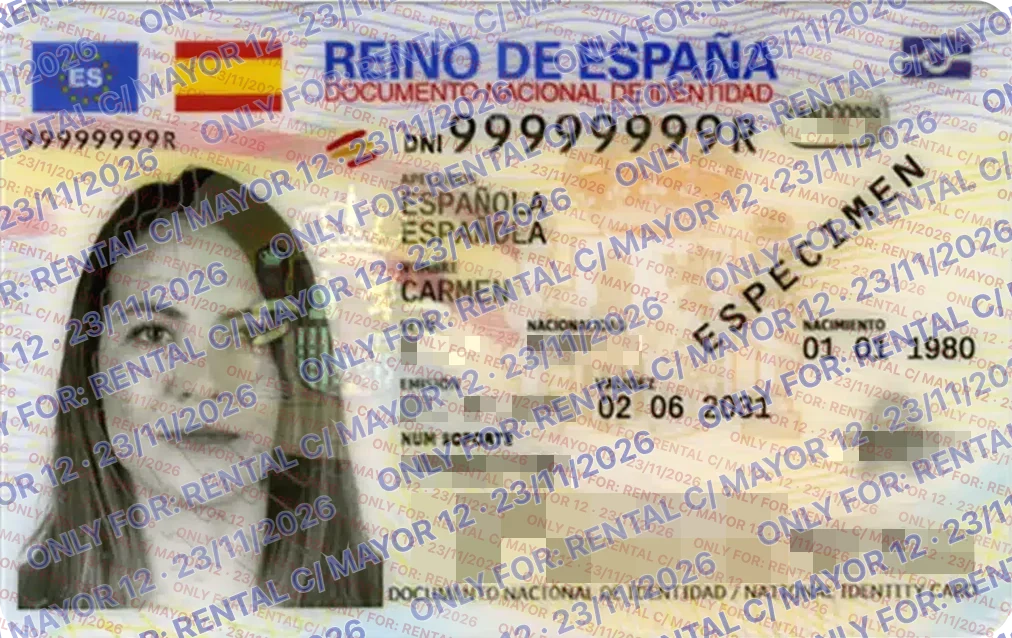
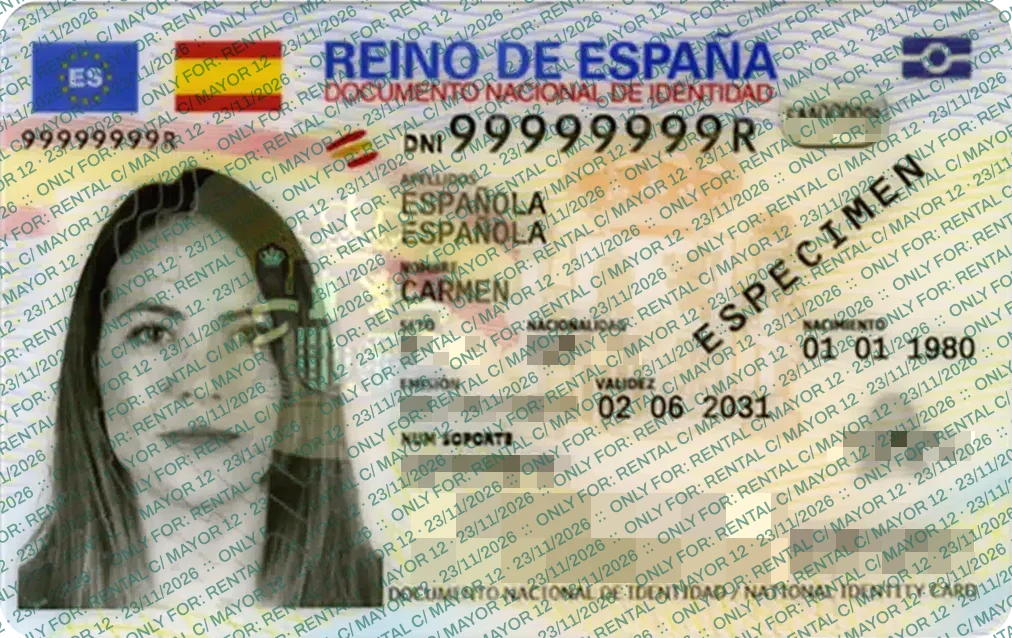
Landing: new watermark on the specimen, and a draggable comparison slider (#8)
* Landing: regenerate the covered specimen with the new watermark

The hero's "Con JustID" images still showed the old two-layer watermark.
The render script now passes a fixed seed (the specimen is reproducible) and
waits for Archivo, which the watermark is set in.

* Landing: the hero specimen is a slider you can drag

The scan line still animates on its own until the visitor takes over: press
or drag (mouse or touch, mapped through the card's 4° rotation), or use the
arrow keys, Home and End. With reduced motion (which some phones turn on
in battery saver, stopping the animation) the card rests at 62% and can
still be dragged. The card is a labelled role="slider", and a hint says
"drag to compare".

* Landing: the specimen animation resumes 5 s after a drag

It picks up from where the line was left (the sweep's easing is inverted to
find the matching point of the animation) instead of jumping back to the
edge. Not with reduced motion, nor while the slider has keyboard focus.

* Landing: resume the specimen animation after 2 s instead of 5

diff --git a/landing/landing.js b/landing/landing.js
@@ -1,6 +1,6 @@
 // @ts-check
 // Landing page behaviour: applies the chosen language to the static Spanish markup, mounts the
-// ES/EN switches and wires the "copy the AI prompt" button. No network access (the CSP forbids it).
+// ES/EN switches, wires the "copy the AI prompt" button and makes the hero's specimen draggable. No network access (the CSP forbids it).
 import { applyI18n, mountLangSwitch, t } from '../app/js/ui/i18n.js';
 import { encodeRequest } from '../app/js/core/request.js';
 import { defaultFields } from '../app/js/core/request-builder.js';
@@ -13,6 +13,7 @@ applyI18n();
 document.querySelectorAll('[data-lang-switch]').forEach(box => mountLangSwitch(/** @type {HTMLElement} */ (box)));
 setupCopyButton();
 setupExampleRequest();
+setupSpecimenSlider();
 window.addEventListener('langchange', setupExampleRequest);
 
 /** Select all the text of an element so the user can copy it by hand. @param {HTMLElement} node */
@@ -97,4 +98,78 @@ function setupExampleRequest() {
   const base = document.getElementById('req-url-base'), frag = document.getElementById('req-url-frag');
   if (base) base.textContent = location.host + '/app/';
   if (frag) frag.textContent = '#' + fragment;
+}
+
+/**
+ * The hero's specimen: the CSS animation sweeps the scan line until the visitor takes over. Pressing
+ * (mouse or touch) moves the line to the pointer and dragging follows it; arrow keys, Home and End
+ * work too. RESUME_MS after the last interaction the animation picks up again from where the line
+ * was left (not while the slider has keyboard focus). With reduced motion there is no animation,
+ * but dragging still works. The card is rotated, so the pointer is mapped into the card's own axes.
+ */
+function setupSpecimenSlider() {
+  const card = /** @type {HTMLElement | null} */ (document.querySelector('.id-card'));
+  if (!card) return;
+  const ANGLE = -4 * Math.PI / 180; // must match the rotate() in landing.css
+  const RESUME_MS = 2000, SWEEP_S = 3; // half of the 6 s animation in landing.css: the left-to-right sweep
+  const reducedMotion = window.matchMedia('(prefers-reduced-motion: reduce)');
+  const animated = /** @type {HTMLElement[]} */ ([...card.querySelectorAll('.card-covered, .scan')]);
+  let pos = 62, resumeTimer = 0;
+  /** The pointer currently dragging, if any. @type {number | null} */
+  let dragging = null;
+
+  /**
+   * Seconds into the animation at which the line is at `p` % while sweeping right. The keyframes go
+   * from -4% to 100% in the first half with cubic-bezier(.6, 0, .4, 1): invert it by bisection.
+   * @param {number} p
+   */
+  const phaseAt = p => {
+    const target = Math.min(1, Math.max(0, (p + 4) / 104));
+    const bez = (/** @type {number} */ s, /** @type {number} */ a, /** @type {number} */ b) => 3 * (1 - s) ** 2 * s * a + 3 * (1 - s) * s * s * b + s ** 3;
+    let lo = 0, hi = 1;
+    for (let i = 0; i < 30; i++) { const mid = (lo + hi) / 2; if (bez(mid, 0, 1) < target) lo = mid; else hi = mid; }
+    return bez(lo, 0.6, 0.4) * SWEEP_S;
+  };
+  const resume = () => {
+    if (reducedMotion.matches || dragging !== null || card.matches(':focus-visible')) return;
+    for (const el of animated) el.style.animationDelay = `-${phaseAt(pos).toFixed(3)}s`;
+    card.classList.remove('is-manual');
+  };
+  const scheduleResume = () => { clearTimeout(resumeTimer); resumeTimer = window.setTimeout(resume, RESUME_MS); };
+
+  /** @param {number} value percentage of the card showing the covered copy */
+  const set = value => {
+    clearTimeout(resumeTimer);
+    pos = Math.round(Math.min(100, Math.max(0, value)));
+    card.classList.add('is-manual');
+    card.style.setProperty('--pos', pos + '%');
+    card.setAttribute('aria-valuenow', String(pos));
+    card.setAttribute('aria-valuetext', t('landing.hero.slider_value', { n: pos }));
+  };
+  /** Position under the pointer, in percent of the card's width. @param {PointerEvent} e */
+  const fromPointer = e => {
+    const r = card.getBoundingClientRect(), dx = e.clientX - (r.left + r.width / 2), dy = e.clientY - (r.top + r.height / 2);
+    const local = dx * Math.cos(ANGLE) + dy * Math.sin(ANGLE); // undo the rotation
+    return (local / card.offsetWidth + 0.5) * 100;
+  };
+
+  card.addEventListener('pointerdown', e => {
+    if (e.button !== 0) return;
+    dragging = e.pointerId;
+    try { card.setPointerCapture(e.pointerId); } catch { /* keeps working without capture */ }
+    set(fromPointer(e));
+  });
+  card.addEventListener('pointermove', e => { if (e.pointerId === dragging) set(fromPointer(e)); });
+  for (const type of ['pointerup', 'pointercancel']) card.addEventListener(type, () => { dragging = null; scheduleResume(); });
+  card.addEventListener('blur', scheduleResume);
+  card.addEventListener('keydown', e => {
+    const step = e.shiftKey ? 10 : 5;
+    const next = { ArrowLeft: pos - step, ArrowDown: pos - step, ArrowRight: pos + step, ArrowUp: pos + step, Home: 0, End: 100 }[e.key];
+    if (next === undefined) return;
+    e.preventDefault();
+    set(next);
+    scheduleResume();
+  });
+  window.addEventListener('langchange', () => card.setAttribute('aria-valuetext', t('landing.hero.slider_value', { n: pos })));
+  card.setAttribute('aria-valuetext', t('landing.hero.slider_value', { n: pos }));
 }

diff --git a/landing/landing.css b/landing/landing.css
@@ -70,15 +70,21 @@ h1 > span:first-child { max-width: 4.6em; }
   background: #e8e4dc; color: #1b1a18; border-radius: calc(18 * var(--u)); overflow: hidden;
   transform: rotate(-4deg); box-shadow: 0 calc(40 * var(--u)) calc(80 * var(--u)) rgba(0,0,0,.55);
   font-family: var(--sans);
+  --pos: 62%; /* where the scan line rests when it doesn't move (reduced motion, or after a drag) */
+  cursor: grab; touch-action: pan-y; user-select: none; -webkit-user-select: none;
 }
+.id-card:active { cursor: grabbing; }
+.id-card:focus-visible { outline-offset: 6px; }
 .id-card > * { position: absolute; }
-.card-img { inset: 0; width: 100%; height: 100%; display: block; object-fit: cover; }
-.card-covered { inset: 0; clip-path: inset(0 104% 0 0); animation: reveal 6s cubic-bezier(.6,0,.4,1) infinite; }
+.card-img { inset: 0; width: 100%; height: 100%; display: block; object-fit: cover; pointer-events: none; -webkit-user-drag: none; }
+.card-covered { inset: 0; clip-path: inset(0 calc(100% - var(--pos)) 0 0); animation: reveal 6s cubic-bezier(.6,0,.4,1) infinite; }
 .card-covered > * { position: absolute; }
 .card-tag { top: calc(10 * var(--u)); font-size: max(9px, calc(11 * var(--u))); letter-spacing: .08em; text-transform: uppercase; padding: calc(3 * var(--u)) calc(7 * var(--u)); border-radius: calc(4 * var(--u)); }
 .card-tag-orig { right: calc(12 * var(--u)); background: rgba(243,241,236,.85); color: #1b1a18; }
 .card-tag-covered { left: calc(12 * var(--u)); background: var(--lime); color: #0d0d0c; }
-.scan { top: 0; bottom: 0; width: max(2px, calc(3 * var(--u))); background: var(--lime); box-shadow: 0 0 calc(24 * var(--u)) calc(6 * var(--u)) rgba(215,255,58,.55); animation: scan 6s cubic-bezier(.6,0,.4,1) infinite; }
+.scan { top: 0; bottom: 0; width: max(2px, calc(3 * var(--u))); background: var(--lime); box-shadow: 0 0 calc(24 * var(--u)) calc(6 * var(--u)) rgba(215,255,58,.55); animation: scan 6s cubic-bezier(.6,0,.4,1) infinite; left: var(--pos); margin-left: calc(-1.5 * var(--u)); }
+/* Once the visitor takes over (drag, click, keys), the animation stops and --pos decides. */
+.id-card.is-manual .card-covered, .id-card.is-manual .scan { animation: none; }
 @keyframes scan { 0%, 100% { left: -4%; } 50% { left: 100%; } }
 /* Same timing as the scan line: everything left of the line shows the covered copy. */
 @keyframes reveal { 0%, 100% { clip-path: inset(0 104% 0 0); } 50% { clip-path: inset(0 0 0 0); } }
@@ -252,8 +258,6 @@ details[open] > summary .pm::before { content: '−'; }
 
 /* ---------- Reduced motion: nothing moves; the scan line rests on the card ---------- */
 @media (prefers-reduced-motion: reduce) {
-  .blob, .scan, .caret, .card-covered { animation: none; }
-  .scan { left: 62%; }
-  .card-covered { clip-path: inset(0 38% 0 0); }
+  .blob, .scan, .caret, .card-covered { animation: none; } /* the card rests at --pos and can still be dragged */
   html { scroll-behavior: auto; }
 }

diff --git a/tests/e2e/landing.spec.js b/tests/e2e/landing.spec.js
@@ -140,3 +140,46 @@ test('/why loads cleanly, has both audiences, switches language and links to the
   expect(seen.errors).toEqual([]);
   expect(seen.outside).toEqual([]);
 });
+
+test('the hero specimen can be dragged (also with reduced motion) and moved with the keyboard', async ({ page }) => {
+  await page.emulateMedia({ reducedMotion: 'reduce' });
+  await page.goto('/');
+  const card = page.locator('.id-card');
+  const pos = () => card.evaluate(el => parseFloat(getComputedStyle(el).getPropertyValue('--pos')));
+  await expect(card).toHaveAttribute('role', 'slider');
+  expect(await pos()).toBe(62);
+  const box = /** @type {{ x: number, y: number, width: number, height: number }} */ (await card.boundingBox());
+  const midY = box.y + box.height / 2;
+  // Pointer events work the same for mouse and touch (Playwright's mouse doesn't drag on emulated phones).
+  const fire = (type, fx) => card.dispatchEvent(type, { pointerId: 7, button: 0, isPrimary: true, clientX: box.x + box.width * fx, clientY: midY });
+  await fire('pointerdown', 0.3);
+  await fire('pointermove', 0.55);
+  await fire('pointermove', 0.8);
+  await fire('pointerup', 0.8);
+  await expect(card).toHaveClass(/is-manual/);
+  expect(Math.abs(await pos() - 80)).toBeLessThan(6); // the card is rotated 4°, so roughly
+  await card.focus();
+  await page.keyboard.press('Home');
+  expect(await pos()).toBe(0);
+  await expect(card).toHaveAttribute('aria-valuenow', '0');
+  await page.keyboard.press('ArrowRight');
+  expect(await pos()).toBe(5);
+});
+
+test('after a drag the specimen animation resumes 2 s later, from where the line was left', async ({ page }) => {
+  await page.clock.install();
+  await page.goto('/');
+  const card = page.locator('.id-card');
+  const box = /** @type {{ x: number, y: number, width: number, height: number }} */ (await card.boundingBox());
+  const fire = (type, fx) => card.dispatchEvent(type, { pointerId: 3, button: 0, isPrimary: true, clientX: box.x + box.width * fx, clientY: box.y + box.height / 2 });
+  await fire('pointerdown', 0.4);
+  await fire('pointerup', 0.4);
+  await expect(card).toHaveClass(/is-manual/);
+  await page.clock.runFor(1500);
+  await expect(card).toHaveClass(/is-manual/);
+  await page.clock.runFor(700);
+  await expect(card).not.toHaveClass(/is-manual/);
+  // The animation restarts at the phase where the line sits where it was left (about 40 %), not at the edge.
+  const left = await page.locator('.scan').evaluate(el => el.offsetLeft / /** @type {HTMLElement} */ (el.parentElement).offsetWidth * 100);
+  expect(Math.abs(left - 40)).toBeLessThan(12);
+});

diff --git a/index.html b/index.html
@@ -61,12 +61,15 @@
       </div>
 
       <figure class="specimen" aria-label="Ejemplo de una copia de DNI con datos tapados y una marca de agua con el motivo" data-i18n-attr="aria-label:landing.hero.specimen_aria">
-        <div class="specimen-label mono" aria-hidden="true" data-i18n="landing.hero.specimen_label">Espécimen · anverso</div>
-        <div class="card-stage" aria-hidden="true">
+        <div class="specimen-label mono" aria-hidden="true"><span data-i18n="landing.hero.specimen_label">Espécimen · anverso</span> · <span class="accent" data-i18n="landing.hero.drag_hint">arrastra para comparar</span></div>
+        <div class="card-stage">
           <!-- Real v4 specimen (templates/ref). The covered copy is real JustID output: app/js/core/redact.js on that
                specimen with the default hidden fields, pixel mode and a watermark, one image per language
                (landing/img, regenerate if redact.js or the default fields change). The scan line wipes between them. -->
-          <div class="id-card">
+          <!-- A slider: the CSS animation plays until the card is touched, clicked or focused with the keyboard;
+               from then on landing.js sets --pos (how much of the card, from the left, shows the covered copy). -->
+          <div class="id-card" role="slider" tabindex="0" aria-valuemin="0" aria-valuemax="100" aria-valuenow="62"
+               aria-label="Compara el original con la copia tapada" aria-valuetext="62 % con JustID" data-i18n-attr="aria-label:landing.hero.slider_label">
             <img class="card-img" src="templates/ref/dni_es_v4_front.webp" alt="" width="1012" height="638">
             <span class="card-tag card-tag-orig mono" data-i18n="landing.card.original">Original</span>
             <div class="card-covered">

diff --git a/locales/landing-es.js b/locales/landing-es.js
@@ -24,6 +24,9 @@ export default {
   'landing.hero.cta_secondary': 'Pedir un DNI a alguien',
   'landing.hero.trust': 'Gratis · Sin registro · Sin anuncios · Código abierto',
   'landing.hero.specimen_aria': 'Ejemplo de una copia de DNI con datos tapados y una marca de agua con el motivo',
+  'landing.hero.drag_hint': 'arrastra para comparar',
+  'landing.hero.slider_label': 'Compara el original con la copia tapada',
+  'landing.hero.slider_value': '{n} % con JustID',
   'landing.hero.specimen_label': 'Espécimen · anverso',
   'landing.hero.stat_fields': '7 campos tapados',
   'landing.hero.stat_bytes': '0 bytes enviados',

diff --git a/locales/landing-en.js b/locales/landing-en.js
@@ -24,6 +24,9 @@ export default {
   'landing.hero.cta_secondary': 'Request an ID from someone',
   'landing.hero.trust': 'Free · No sign-up · No ads · Open source',
   'landing.hero.specimen_aria': 'Example of an ID copy with covered fields and a watermark stating its purpose',
+  'landing.hero.drag_hint': 'drag to compare',
+  'landing.hero.slider_label': 'Compare the original with the covered copy',
+  'landing.hero.slider_value': '{n}% with JustID',
   'landing.hero.specimen_label': 'Specimen · front',
   'landing.hero.stat_fields': '7 fields covered',
   'landing.hero.stat_bytes': '0 bytes sent',
